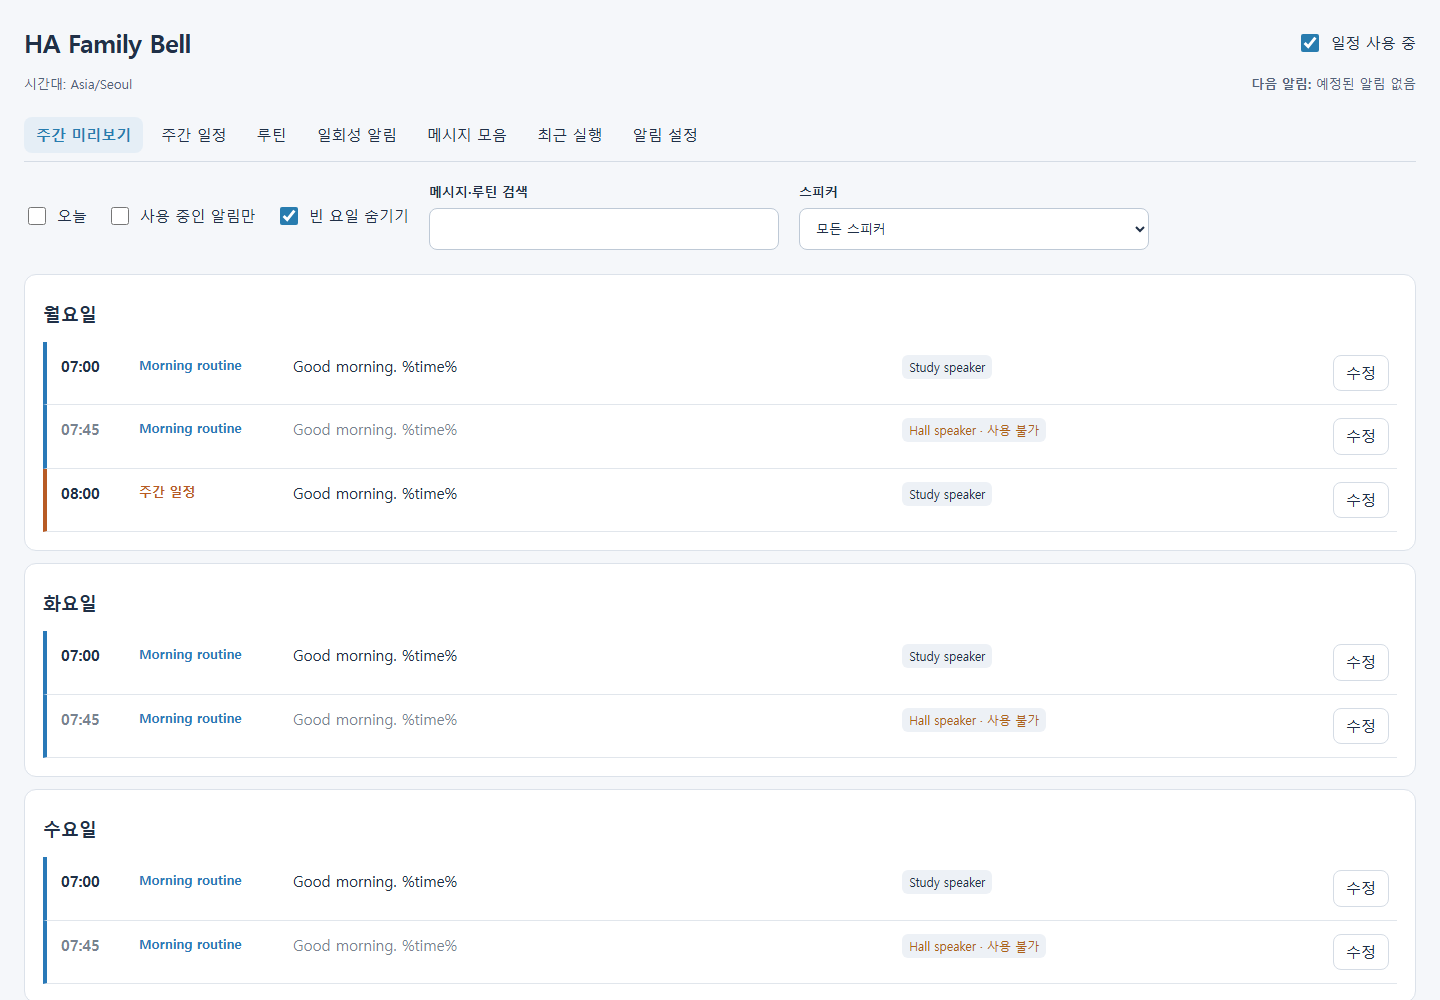
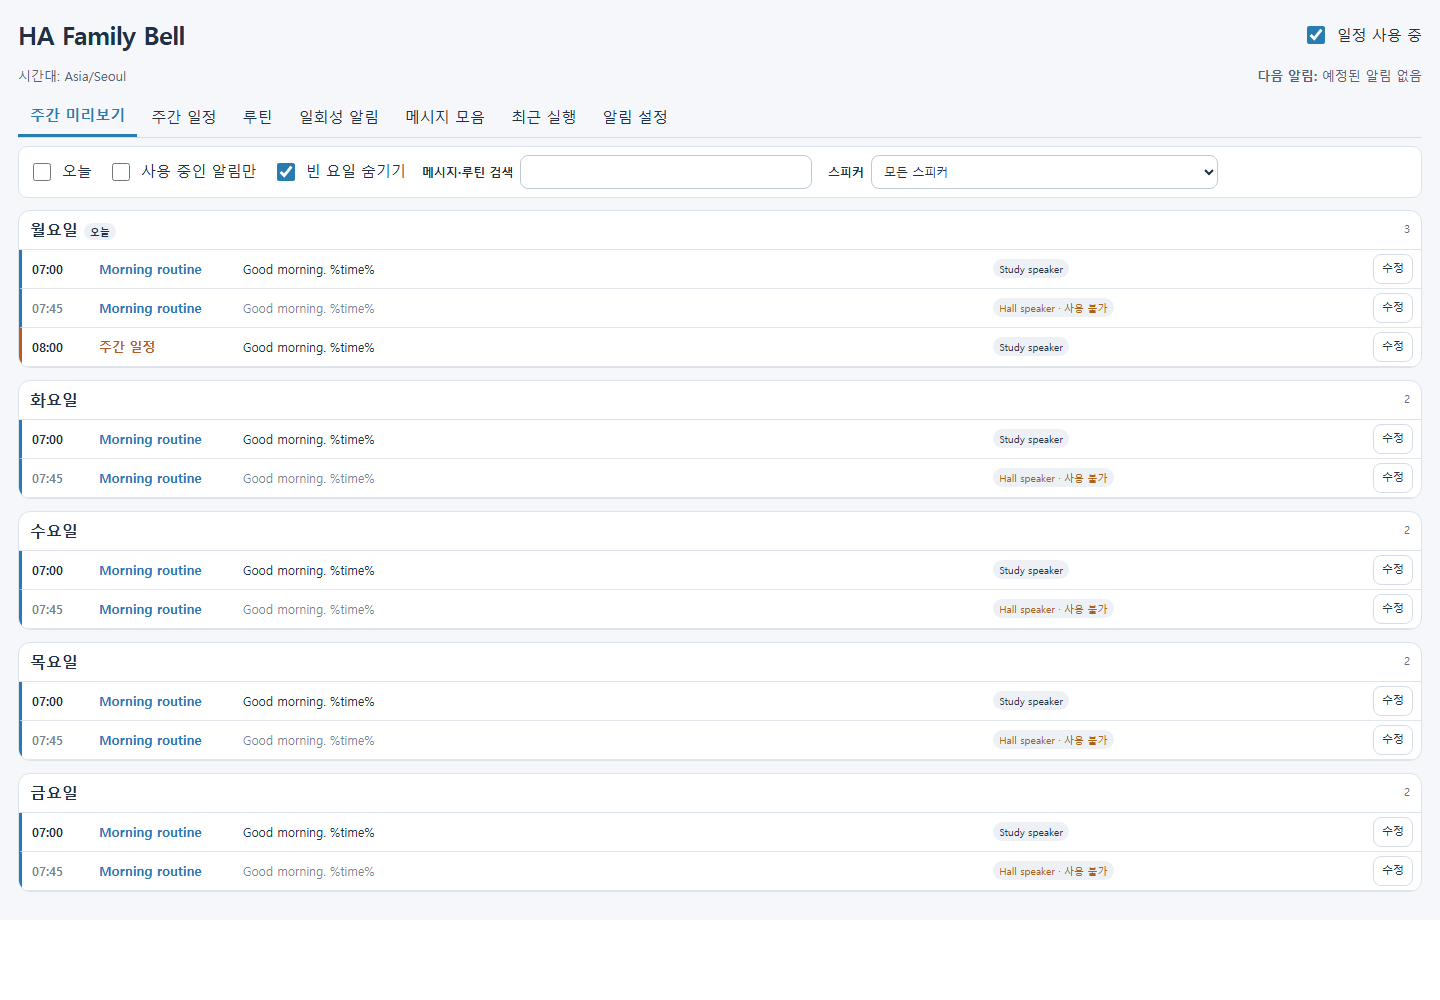
Compact the panel and remember speakers (#6)

diff --git a/custom_components/ha_family_bell/frontend/ha-family-bell-panel.js b/custom_components/ha_family_bell/frontend/ha-family-bell-panel.js
@@ -1,8 +1,9 @@
-import { DAYS, wallTime, tomorrow, eventDatetime, friendlyTemplate, previewEntries, translate } from "./panel-model.js?v=0.4.0";
+import { DAYS, wallTime, tomorrow, eventDatetime, friendlyTemplate, previewEntries, translate } from "./panel-model.js?v=0.4.1";
 
 const escape = (value = "") => String(value ?? "").replace(/[&<>"']/g, c => ({ "&": "&amp;", "<": "&lt;", ">": "&gt;", '"': "&quot;", "'": "&#39;" })[c]);
 const clone = value => JSON.parse(JSON.stringify(value));
 const checked = value => value ? " checked" : "";
+const LAST_SPEAKERS_KEY = "ha-family-bell:last-speakers";
 
 export class HaFamilyBellPanel extends HTMLElement {
   constructor() {
@@ -15,7 +16,7 @@ export class HaFamilyBellPanel extends HTMLElement {
     this._busy = false;
     this.error = "";
     this.notice = "";
-    this.shadowRoot.innerHTML = '<link rel="stylesheet" href="' + new URL("./panel.css?v=0.4.0", import.meta.url).href + '"><main id="app"></main><dialog id="editor"></dialog>';
+    this.shadowRoot.innerHTML = '<link rel="stylesheet" href="' + new URL("./panel.css?v=0.4.1", import.meta.url).href + '"><main id="app"></main><dialog id="editor"></dialog>';
     this.shadowRoot.addEventListener("click", event => this.handleClick(event));
     this.shadowRoot.addEventListener("change", event => this.handleChange(event));
     this.shadowRoot.addEventListener("input", event => this.handleInput(event));
@@ -96,6 +97,16 @@ export class HaFamilyBellPanel extends HTMLElement {
   }
   speakerName(id) { return this.hass.states[id]?.attributes?.friendly_name || id; }
   available(id) { return this.hass.states[id] && !["unavailable", "unknown"].includes(this.hass.states[id].state); }
+  rememberedSpeakers() {
+    try {
+      const ids = JSON.parse(localStorage.getItem(LAST_SPEAKERS_KEY) || "[]");
+      return Array.isArray(ids) ? ids.filter(id => typeof id === "string" && id.startsWith("media_player.")) : [];
+    } catch (_error) { return []; }
+  }
+  rememberSpeakers(ids) {
+    if (!ids.length) return;
+    try { localStorage.setItem(LAST_SPEAKERS_KEY, JSON.stringify([...new Set(ids)])); } catch (_error) { /* Browser storage can be unavailable. */ }
+  }
   speakerSummary(ids = []) {
     return ids.map(id => '<span class="speaker' + (this.available(id) ? "" : " warning") + '" title="' + escape(id) + '">' + escape(this.speakerName(id)) + (this.available(id) ? "" : " · " + escape(this.t(this.hass.states[id] ? "unavailable" : "missing"))) + "</span>").join("");
   }
@@ -116,7 +127,7 @@ export class HaFamilyBellPanel extends HTMLElement {
     if (this.activeTab === "preview") return this.previewView();
     if (this.activeTab === "weekly") {
       return '<div class="toolbar">' + this.button("new", "add", this.ref("weekly"), true) + this.button("convert", "convert") + "</div>" +
-        DAYS.map((day, index) => { const bells = this.data.bells.filter(b => b.type === "weekly" && b.weekday === index); return '<section class="day"><h2>' + escape(this.t(day)) + "</h2>" + (bells.map(b => this.bellCard(b, "weekly")).join("") || '<p class="muted">' + escape(this.t("noBells")) + "</p>") + "</section>"; }).join("");
+        DAYS.map((day, index) => { const bells = this.data.bells.filter(b => b.type === "weekly" && b.weekday === index); return '<section class="day schedule-group"><div class="group-heading"><h2>' + escape(this.t(day)) + '</h2><span>' + bells.length + '</span></div>' + (bells.map(b => this.bellCard(b, "weekly")).join("") || '<p class="muted compact-empty">' + escape(this.t("noBells")) + "</p>") + "</section>"; }).join("");
     }
     if (this.activeTab === "routines") {
       return '<div class="toolbar">' + this.button("new", "addRoutine", this.ref("routine_meta"), true) + this.button("convert", "convert") + "</div>" +
@@ -134,7 +145,8 @@ export class HaFamilyBellPanel extends HTMLElement {
   bellCard(bell, owner, routineId = "") {
     const attrs = this.ref(owner, routineId || bell.id, routineId ? bell.id : "");
     const when = owner === "one_time" ? this.dateLabel(bell.datetime) : (bell.time?.slice(0, 5) || "") + (owner === "routine" ? " · " + bell.weekdays.map(d => this.t(DAYS[d])).join(", ") : "");
-    return '<article class="card' + (bell.enabled ? "" : " disabled") + '"><div class="row"><strong>' + escape(when) + '</strong>' + this.checkbox("bell-enabled", "enabled", bell.enabled, attrs) + '</div>' + (bell.name ? "<h3>" + escape(bell.name) + "</h3>" : "") + "<p>" + escape(friendlyTemplate(bell.message_source?.template)) + '</p><div class="speakers">' + this.speakerSummary(bell.speakers) + '</div><div class="actions">' + (owner === "one_time" ? '<span class="badge">' + escape(this.t(bell.status)) + "</span>" : "") + this.button("edit", "edit", attrs) + this.button("test", "test", attrs) + (owner === "weekly" ? this.button("copy", "copy", attrs) : owner === "one_time" ? this.button("duplicate", "duplicate", attrs) + (bell.status !== "pending" ? this.button("reschedule", "reschedule", attrs) : "") : "") + this.button("delete", "remove", attrs) + "</div></article>";
+    const label = bell.name ? '<span class="bell-name">' + escape(bell.name) + "</span>" : "";
+    return '<article class="bell-row' + (bell.enabled ? "" : " disabled") + '" data-kind="' + owner + '"><label class="row-toggle" title="' + escape(this.t("enabled")) + '"><input type="checkbox" name="bell-enabled" aria-label="' + escape(this.t("enabled")) + '"' + checked(bell.enabled) + " " + attrs + "></label><strong class=\"bell-when\">" + escape(when) + '</strong><div class="bell-content">' + label + '<span class="message">' + escape(friendlyTemplate(bell.message_source?.template)) + '</span></div><div class="speakers">' + this.speakerSummary(bell.speakers) + '</div><div class="actions">' + (owner === "one_time" ? '<span class="badge">' + escape(this.t(bell.status)) + "</span>" : "") + this.button("edit", "edit", attrs) + this.button("test", "test", attrs) + (owner === "weekly" ? this.button("copy", "copy", attrs) : owner === "one_time" ? this.button("duplicate", "duplicate", attrs) + (bell.status !== "pending" ? this.button("reschedule", "reschedule", attrs) : "") : "") + this.button("delete", "remove", attrs) + "</div></article>";
   }
   previewView() {
     const speakers = Object.keys(this.hass.states).filter(id => id.startsWith("media_player."));
@@ -154,7 +166,7 @@ export class HaFamilyBellPanel extends HTMLElement {
       entries.push(...rows.events.filter(row => row.date === dateKey && matches(row)));
       entries.sort((a, b) => a.time.localeCompare(b.time));
       if (!entries.length && this.filters.hideEmpty) return "";
-      return '<section class="day"><h2>' + escape(this.t(day)) + (index === weekday ? ' <span class="badge">' + escape(this.t("today")) + "</span>" : "") + "</h2>" + (entries.map(rowHTML).join("") || '<p class="muted">' + escape(this.t("noBells")) + "</p>") + "</section>";
+      return '<section class="day preview-day"><div class="group-heading"><h2>' + escape(this.t(day)) + (index === weekday ? ' <span class="badge">' + escape(this.t("today")) + "</span>" : "") + '</h2><span>' + entries.length + '</span></div>' + (entries.map(rowHTML).join("") || '<p class="muted compact-empty">' + escape(this.t("noBells")) + "</p>") + "</section>";
     }).join("");
   }
   sourceColor(key = "") {
@@ -284,6 +296,7 @@ export class HaFamilyBellPanel extends HTMLElement {
     const base = this.currentRecord(reference);
     let item = clone(owner === "settings" ? this.data.settings : owner === "routine" ? base?.steps.find(s => s.id === step) || {} : base || {});
     if (action === "new" && owner !== "routine") item = {};
+    if (action === "new" && ["weekly", "one_time", "routine"].includes(owner)) item.speakers = this.rememberedSpeakers();
     const duplicate = action === "duplicate";
     const rearm = action === "reschedule";
     this.editor = { owner, id: duplicate || action === "new" && owner !== "routine" ? "" : id, step, action, item, base: base ? clone(base) : null, revision: base?.revision, timezone: this.data.timezone, dirty: false, generation: 0, rearm };
@@ -315,6 +328,7 @@ export class HaFamilyBellPanel extends HTMLElement {
   async saveEditor(form) {
     if (this._busy || !this.editor || !form.reportValidity()) return;
     const editor = this.editor;
+    let speakersToRemember = [];
     const value = name => form.elements.namedItem(name)?.value || "";
     const isChecked = name => !!form.elements.namedItem(name)?.checked;
     const selections = name => [...form.querySelectorAll('input[name="' + name + '"]:checked')].map(input => input.value);
@@ -342,6 +356,7 @@ export class HaFamilyBellPanel extends HTMLElement {
           request = editor.id ? { set_id: editor.id, changes, expected_revision: editor.revision } : { message_set: changes };
         } else {
           const speakers = selections("speakers"); if (!speakers.length) throw Error(this.t("noSpeaker"));
+          speakersToRemember = speakers;
           const source = { kind: value("kind"), template: value("template") };
           if (source.kind === "message_set") source.set_id = value("set_id");
           changes = { enabled: isChecked("enabled"), message_source: source, speakers };
@@ -362,6 +377,7 @@ export class HaFamilyBellPanel extends HTMLElement {
         }
         this.setBusy(true);
         await this.mutate(command, request);
+        this.rememberSpeakers(speakersToRemember);
       }
       this.setBusy(false); this.closeEditor(true); this.notice = this.t("saved"); this.render();
     } catch (error) { this.editorError(error); }

diff --git a/custom_components/ha_family_bell/frontend/panel.css b/custom_components/ha_family_bell/frontend/panel.css
@@ -1,7 +1,7 @@
 :host { display: block; color: var(--primary-text-color, #203047); background: var(--primary-background-color, #f5f7fa); font: 15px/1.5 var(--paper-font-body1_-_font-family, system-ui, sans-serif); min-height: 100%; }
 * { box-sizing: border-box; }
 [hidden] { display: none !important; }
-main { max-width: 1600px; margin: auto; padding: 24px; }
+main { max-width: 1700px; margin: auto; padding: 16px 18px; }
 header, .toolbar, .actions, .row, .summary, .filters { display: flex; align-items: center; gap: 12px; flex-wrap: wrap; }
 header { justify-content: space-between; }
 h1 { font-size: 25px; margin: 0; letter-spacing: -.5px; }
@@ -15,14 +15,18 @@ button:focus-visible, input:focus-visible, select:focus-visible, textarea:focus-
 button:disabled { opacity: .5; cursor: default; }
 button.primary { color: var(--text-primary-color, white); background: var(--primary-color, #287caf); border-color: transparent; }
 input[type=checkbox] { accent-color: var(--primary-color, #287caf); width: 18px; height: 18px; flex-shrink: 0; }
-nav { display: flex; gap: 6px; margin: 24px 0 8px; padding-bottom: 8px; overflow-x: auto; border-bottom: 1px solid var(--divider-color, #d5dce5); }
-nav button { white-space: nowrap; border: 0; background: transparent; }
-nav button[aria-current=page] { background: var(--secondary-background-color, #e5eef6); color: var(--primary-color, #287caf); font-weight: 650; }
+nav { display: flex; gap: 2px; margin: 12px 0 8px; overflow-x: auto; border-bottom: 1px solid var(--divider-color, #d5dce5); }
+nav button { min-height: 38px; padding: 7px 12px; white-space: nowrap; border: 0; border-radius: 0; background: transparent; }
+nav button[aria-current=page] { color: var(--primary-color, #287caf); border-bottom: 3px solid var(--primary-color, #287caf); font-weight: 650; }
 .summary { justify-content: space-between; color: var(--secondary-text-color, #526278); font-size: 13px; margin-top: 12px; }
 .summary span:last-child { max-width: 75%; overflow-wrap: anywhere; }
-.toolbar { margin: 16px 0; }
+.toolbar { margin: 10px 0; }
 .card, .routine, .day { padding: 18px; background: var(--card-background-color, #fff); border: 1px solid var(--divider-color, #dce2ea); border-radius: 12px; margin: 12px 0; }
-.day .card { padding: 14px; }
+.day { padding: 0; overflow: hidden; }
+.group-heading { display: flex; align-items: center; justify-content: space-between; gap: 12px; min-height: 39px; padding: 7px 11px; border-bottom: 1px solid var(--divider-color, #dce2ea); }
+.group-heading h2 { margin: 0; font-size: 16px; }
+.group-heading > span { color: var(--secondary-text-color, #627186); font-size: 11px; }
+.compact-empty { margin: 0; padding: 9px 12px; }
 .card .row { justify-content: space-between; }
 .card .actions { margin-top: 14px; }
 .routine summary { cursor: pointer; min-height: 32px; }
@@ -30,13 +34,25 @@ nav button[aria-current=page] { background: var(--secondary-background-color, #e
 .field { display: flex; flex-direction: column; gap: 6px; margin: 12px 0; font-weight: 550; min-width: 0; }
 .field input, .field select, .field textarea { background: var(--card-background-color, #fff); border: 1px solid var(--divider-color, #bec9d6); border-radius: 8px; padding: 10px 12px; font-weight: 400; width: 100%; min-height: 42px; }
 textarea { resize: vertical; }
-.filters { gap: 8px 20px; }
-.filters .field { flex: 1; min-width: 190px; max-width: 350px; font-size: 13px; }
-.preview-row { display: grid; grid-template-columns: 64px 140px minmax(160px, 1fr) minmax(150px, .7fr) auto; gap: 14px; align-items: start; padding: 13px 8px 13px 14px; border-left: 4px solid var(--source-color, #287caf); border-bottom: 1px solid var(--divider-color, #e1e6ec); }
+.filters { gap: 6px 16px; margin: 8px 0 10px; padding: 8px 10px; background: var(--card-background-color, #fff); border: 1px solid var(--divider-color, #dce2ea); border-radius: 9px; }
+.filters .check { min-height: 34px; }
+.filters .field { display: grid; grid-template-columns: max-content minmax(150px, 1fr); align-items: center; flex: 1; min-width: 230px; max-width: 390px; gap: 7px; margin: 0; font-size: 12px; }
+.filters .field input, .filters .field select { min-height: 34px; padding: 5px 8px; }
+.preview-row { display: grid; grid-template-columns: 58px 135px minmax(240px, 2fr) minmax(140px, 1fr) auto; gap: 9px; align-items: center; min-height: 34px; padding: 4px 8px 4px 10px; border-left: 3px solid var(--source-color, #287caf); border-bottom: 1px solid var(--divider-color, #e1e6ec); font-size: 12px; }
 .source { font-size: 13px; font-weight: 600; color: var(--source-color, #287caf); overflow-wrap: anywhere; }
 .message { white-space: pre-wrap; overflow-wrap: anywhere; }
-.speakers { display: flex; flex-wrap: wrap; align-items: center; gap: 6px; }
-.speaker, .badge { font-size: 12px; border-radius: 6px; padding: 3px 7px; background: var(--secondary-background-color, #edf1f6); }
+.speakers { display: flex; flex-wrap: nowrap; align-items: center; gap: 4px; min-width: 0; overflow: hidden; }
+.speaker, .badge { flex: 0 1 auto; min-width: 0; overflow: hidden; text-overflow: ellipsis; white-space: nowrap; font-size: 10px; border-radius: 999px; padding: 2px 6px; background: var(--secondary-background-color, #edf1f6); }
+.bell-row { display: grid; grid-template-columns: 28px minmax(78px, 170px) minmax(240px, 2fr) minmax(140px, 1fr) auto; gap: 8px; align-items: center; min-height: 42px; padding: 5px 9px; border-top: 1px solid var(--divider-color, #e1e6ec); font-size: 12px; }
+.schedule-group .bell-row:first-of-type { border-top: 0; }
+.row-toggle { display: grid; place-items: center; min-height: 30px; cursor: pointer; }
+.row-toggle input { width: 17px; height: 17px; margin: 0; accent-color: var(--primary-color, #287caf); }
+.bell-when { font-variant-numeric: tabular-nums; overflow-wrap: anywhere; }
+.bell-content { display: flex; min-width: 0; gap: 8px; align-items: baseline; }
+.bell-name { flex: 0 1 auto; min-width: 0; overflow: hidden; text-overflow: ellipsis; white-space: nowrap; color: var(--secondary-text-color, #627186); font-weight: 600; }
+.bell-content .message { flex: 1 1 auto; min-width: 0; overflow: hidden; text-overflow: ellipsis; white-space: nowrap; }
+.bell-row .actions { flex-wrap: nowrap; gap: 4px; margin: 0; }
+.bell-row .actions button, .preview-row button { min-height: 30px; padding: 3px 8px; font-size: 11px; }
 .disabled > p, .disabled > .row, .disabled > strong, .disabled > .message, li.disabled { opacity: .6; }
 .disabled .actions, .disabled button { opacity: 1; }
 .muted, .empty { color: var(--secondary-text-color, #627186); font-size: 13px; }
@@ -73,10 +89,15 @@ footer { display: flex; gap: 10px; justify-content: flex-end; position: sticky; 
   .preview-row button { grid-column: 3; grid-row: 1; }
   .summary { align-items: flex-start; flex-direction: column; gap: 4px; }
   .summary span:last-child { max-width: 100%; }
-  .card, .routine, .day { padding: 12px; }
+  .card, .routine { padding: 12px; }
+  .day { padding: 0; }
   .card .actions { gap: 8px; }
   button, .check { min-height: 44px; }
   .filters .field { max-width: none; }
+  .bell-row { grid-template-columns: 28px minmax(0, 1fr) auto; gap: 6px; padding: 7px 9px; }
+  .bell-row .bell-content { grid-column: 2 / -1; }
+  .bell-row .speakers { grid-column: 2 / -1; }
+  .bell-row .actions { grid-column: 2 / -1; flex-wrap: wrap; }
   dialog { width: calc(100vw - 16px); max-height: calc(100dvh - 16px); border-radius: 12px; }
   dialog form { padding: 16px 16px 0; }
   footer { flex-wrap: wrap; }

diff --git a/tests/browser/panel.spec.js b/tests/browser/panel.spec.js
@@ -112,3 +112,62 @@ test("mobile Korean controls remain labelled and fit the viewport", async ({ pag
   expect(await page.evaluate(() => document.documentElement.scrollWidth <= innerWidth)).toBe(true);
   expect(await dialog(page).evaluate(node => node.scrollWidth <= node.clientWidth)).toBe(true);
 });
+
+test("schedule and preview use compact rows without losing editor access", async ({ page }) => {
+  await tab(page, "weekly");
+  const scheduleRow = page.locator(".bell-row").first();
+  await expect(scheduleRow).toBeVisible();
+  expect((await scheduleRow.boundingBox()).height).toBeLessThanOrEqual(46);
+  await scheduleRow.getByRole("button", { name: "Edit", exact: true }).click();
+  await expect(dialog(page).getByRole("button", { name: "Save", exact: true })).toBeVisible();
+  await dialog(page).getByRole("button", { name: "Cancel", exact: true }).click();
+
+  await tab(page, "preview");
+  const previewRow = page.locator(".preview-row").first();
+  await expect(previewRow).toBeVisible();
+  expect((await previewRow.boundingBox()).height).toBeLessThanOrEqual(40);
+});
+
+test("new bells reuse speakers only after a successful save", async ({ page }) => {
+  await tab(page, "weekly");
+  await page.getByRole("button", { name: "Add bell", exact: true }).click();
+  await dialog(page).locator('input[name="speakers"][value="media_player.hall"]').check();
+  page.once("dialog", prompt => prompt.accept());
+  await dialog(page).getByRole("button", { name: "Cancel", exact: true }).click();
+
+  await page.getByRole("button", { name: "Add bell", exact: true }).click();
+  await expect(dialog(page).locator('input[name="speakers"][value="media_player.hall"]')).not.toBeChecked();
+  await dialog(page).getByRole("button", { name: "Cancel", exact: true }).click();
+
+  await page.getByRole("button", { name: "Edit", exact: true }).click();
+  await dialog(page).locator('input[name="speakers"][value="media_player.study"]').uncheck();
+  await dialog(page).locator('input[name="speakers"][value="media_player.hall"]').check();
+  await dialog(page).getByRole("button", { name: "Save", exact: true }).click();
+  await page.getByRole("button", { name: "Add bell", exact: true }).click();
+  await expect(dialog(page).locator('input[name="speakers"][value="media_player.hall"]')).toBeChecked();
+  await dialog(page).getByRole("button", { name: "Cancel", exact: true }).click();
+
+  await page.getByRole("button", { name: "Edit", exact: true }).click();
+  await dialog(page).locator('input[name="speakers"][value="media_player.hall"]').uncheck();
+  await dialog(page).locator('input[name="speakers"][value="media_player.study"]').check();
+  await page.evaluate(() => { window.failNext = true; });
+  await dialog(page).getByRole("button", { name: "Save", exact: true }).click();
+  await expect(dialog(page).getByRole("alert")).toContainText("Unable to save");
+  page.once("dialog", prompt => prompt.accept());
+  await dialog(page).getByRole("button", { name: "Cancel", exact: true }).click();
+  await page.getByRole("button", { name: "Add bell", exact: true }).click();
+  await expect(dialog(page).locator('input[name="speakers"][value="media_player.hall"]')).toBeChecked();
+  await expect(dialog(page).locator('input[name="speakers"][value="media_player.study"]')).not.toBeChecked();
+});
+
+test("remembered speakers apply to one-time events and routine steps", async ({ page }) => {
+  await page.evaluate(() => localStorage.setItem("ha-family-bell:last-speakers", '["media_player.study"]'));
+  await tab(page, "one_time");
+  await page.getByRole("button", { name: "Add event", exact: true }).click();
+  await expect(dialog(page).locator('input[name="speakers"][value="media_player.study"]')).toBeChecked();
+  await dialog(page).getByRole("button", { name: "Cancel", exact: true }).click();
+
+  await tab(page, "routines");
+  await page.locator('[data-action="new"][data-owner="routine"]').click();
+  await expect(dialog(page).locator('input[name="speakers"][value="media_player.study"]')).toBeChecked();
+});

diff --git a/custom_components/ha_family_bell/__init__.py b/custom_components/ha_family_bell/__init__.py
@@ -79,7 +79,7 @@ async def async_setup_entry(hass: HomeAssistant, entry: ConfigEntry) -> bool:
             webcomponent_name=PANEL_WEB_COMPONENT,
             sidebar_title="HA Family Bell",
             sidebar_icon="mdi:bell-ring",
-            module_url=f"{STATIC_URL}/ha-family-bell-panel.js?v=0.4.0",
+            module_url=f"{STATIC_URL}/ha-family-bell-panel.js?v=0.4.1",
             require_admin=True,
             config_panel_domain=DOMAIN,
         )
